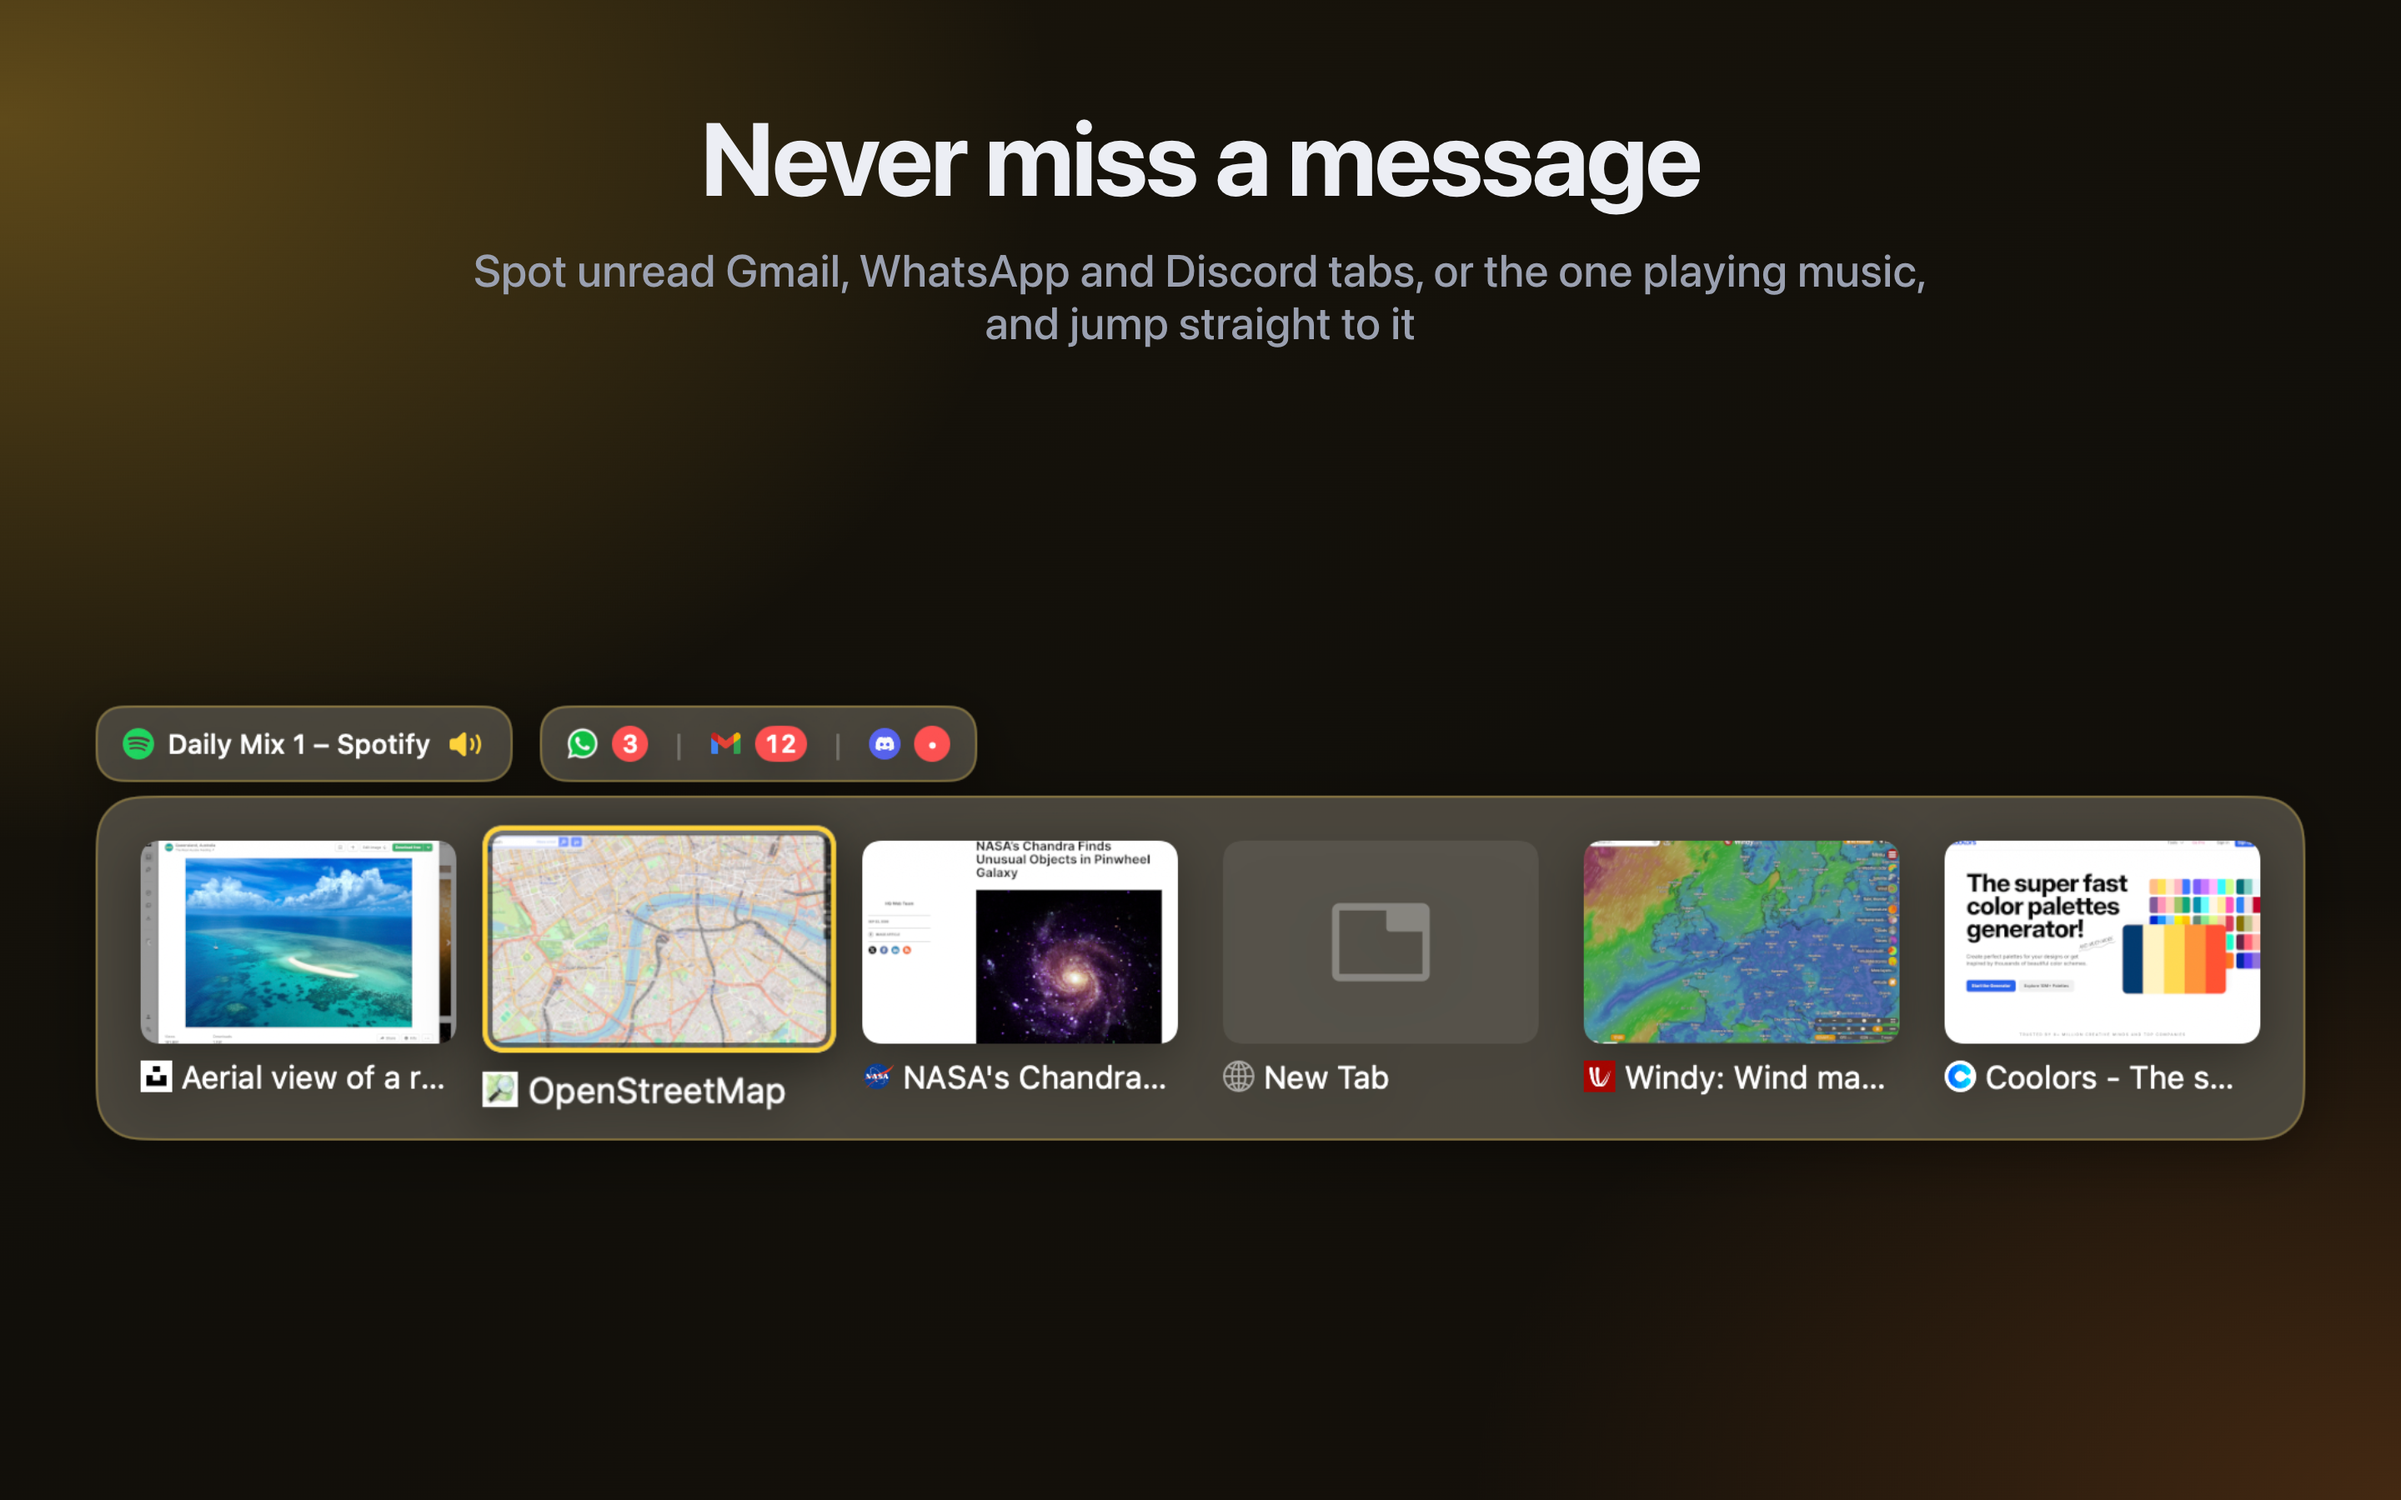
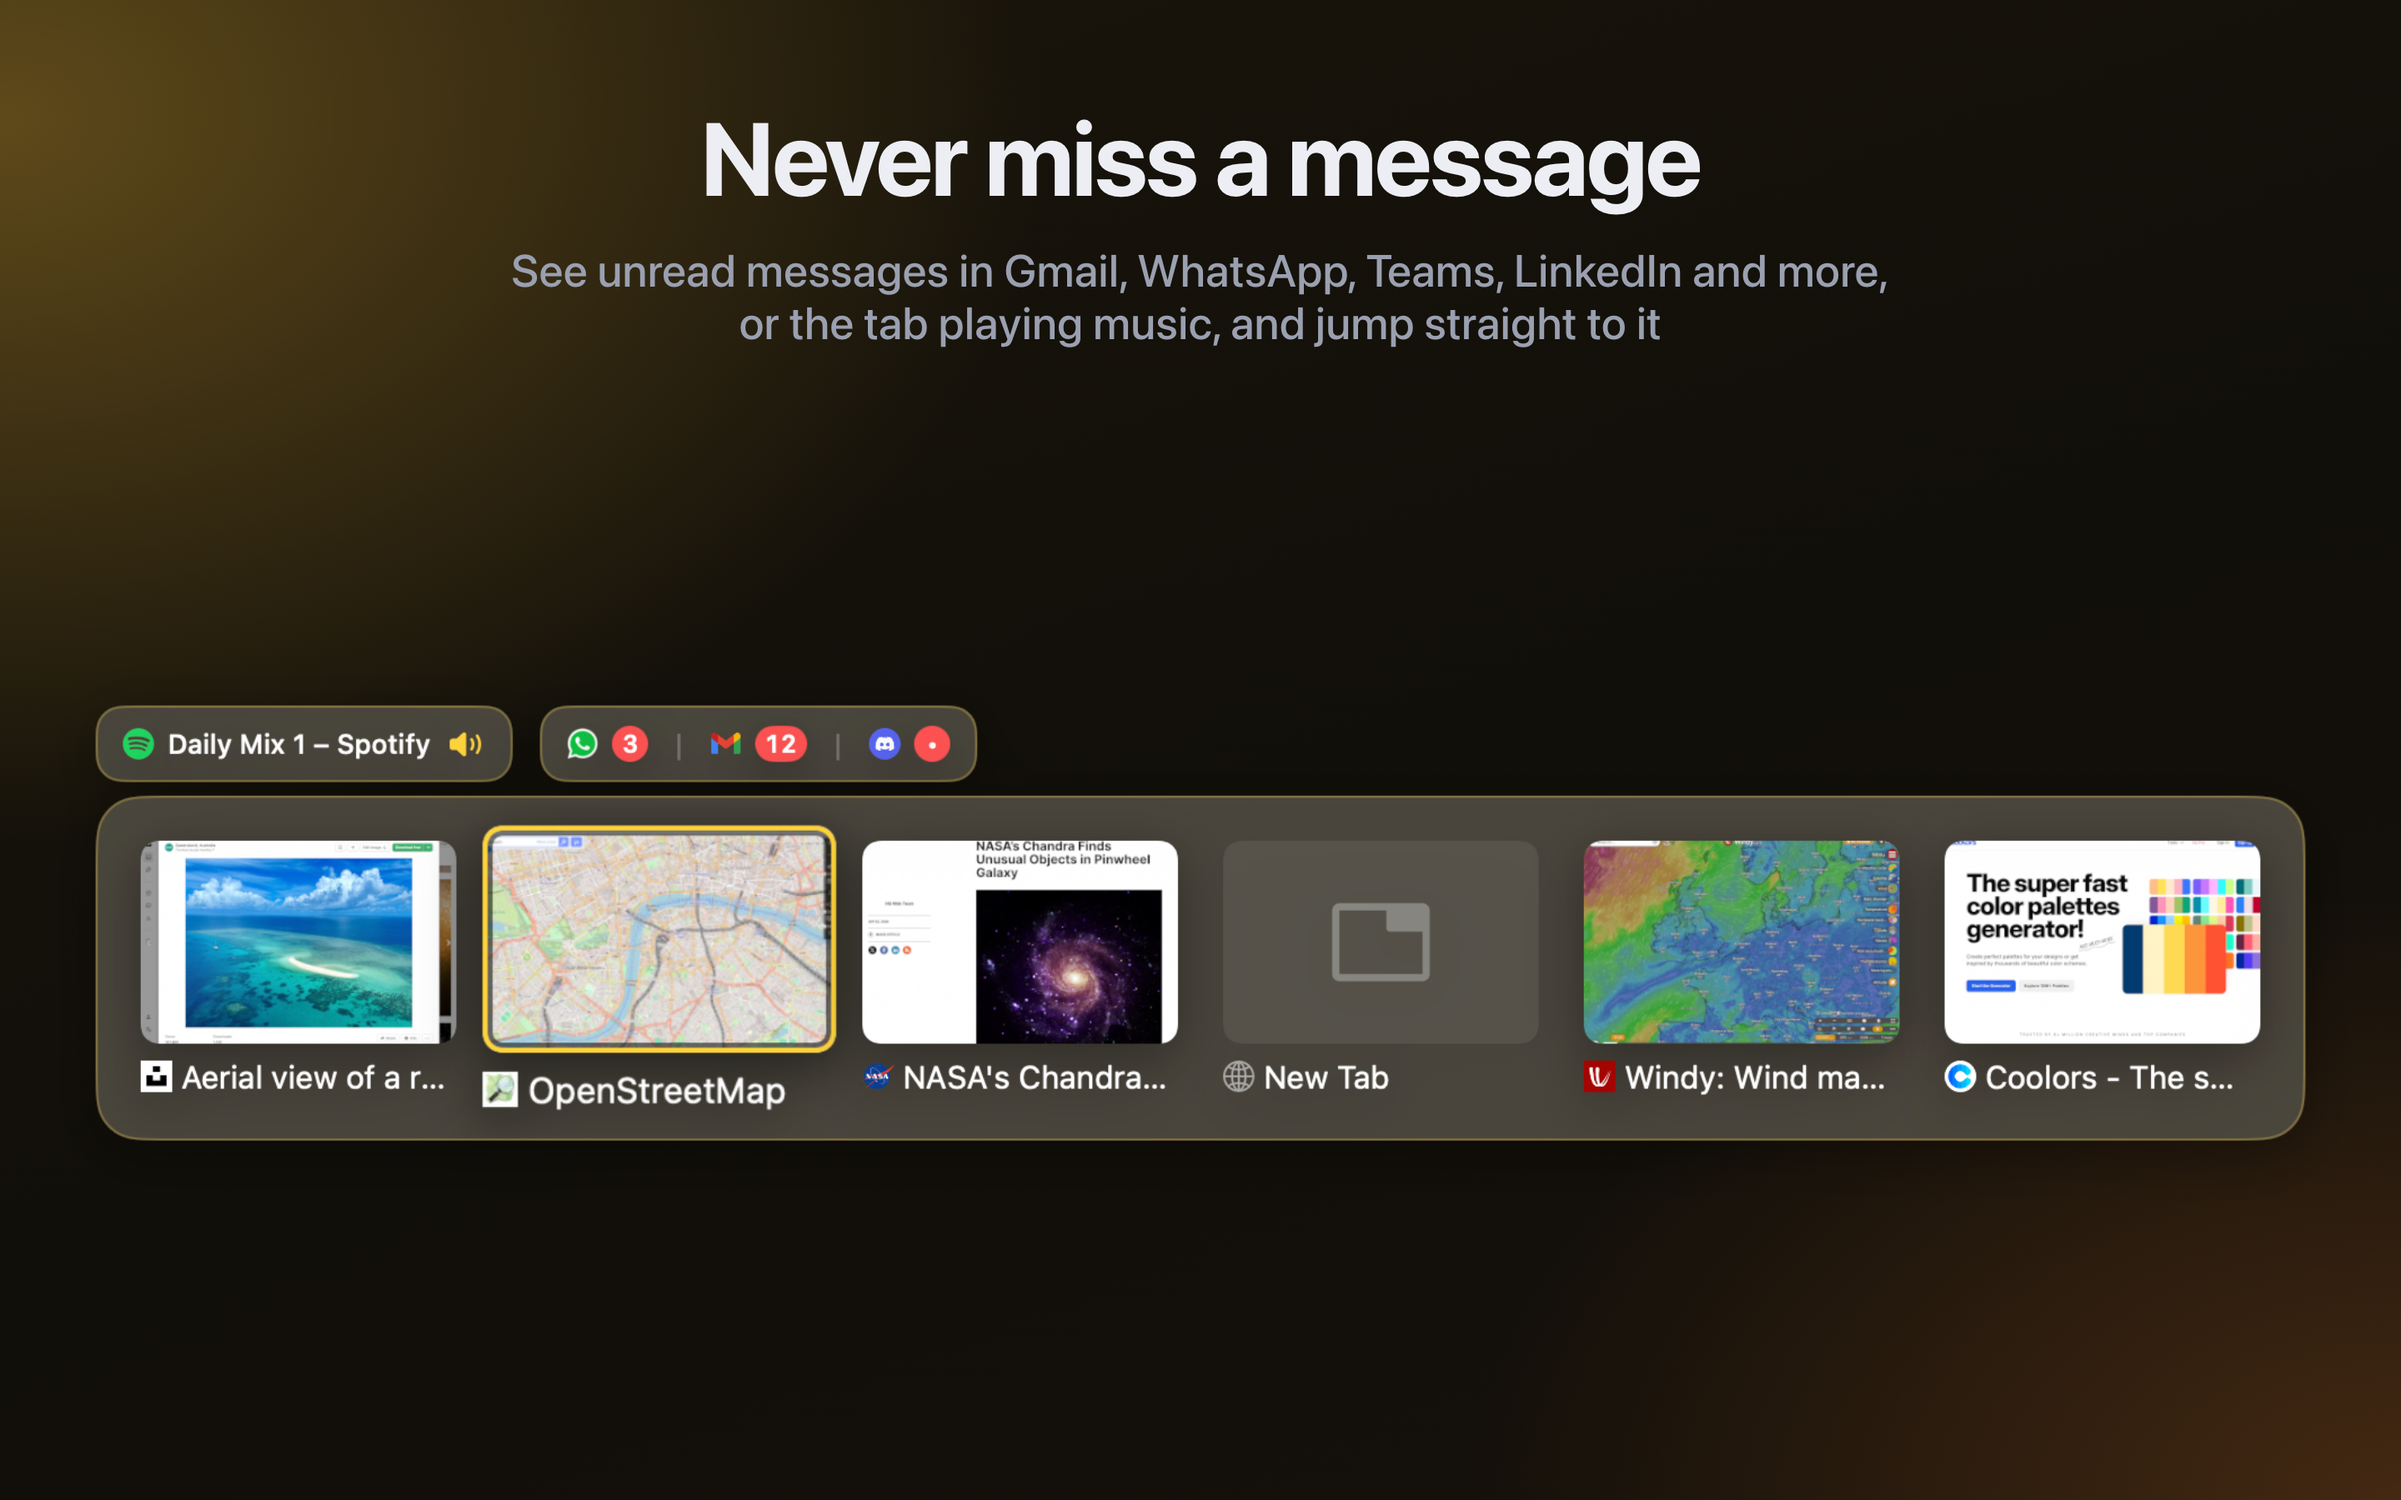
deploy: update TabFlick landing page

Changed region(s): [[0.1875, 0.1556, 0.7812, 0.2489]]

diff --git a/tab-flick/index.html b/tab-flick/index.html
@@ -14,7 +14,9 @@
 <meta property="og:image" content="https://e.gluhotorenko.com/tab-flick/assets/social.png">
 <meta name="twitter:card" content="summary_large_image">
 
-<link rel="stylesheet" href="styles.css">
+<!-- Bump ?v= with every styles.css change: Pages lets browsers cache it for 10
+     minutes, so a deploy would otherwise pair new HTML with the old CSS. -->
+<link rel="stylesheet" href="styles.css?v=2">
 </head>
 <!-- Change launch-state to "released" when the browser extensions are available. -->
 <body data-launch-state="coming-soon">
@@ -61,7 +63,7 @@
       </article>
       <article class="promo-slide">
         <img class="promo-image" src="imgs/promo-3.webp" loading="lazy"
-          alt="Never miss a message: spot unread Gmail, WhatsApp and Discord tabs, or the one playing music, and jump straight to it">
+          alt="Never miss a message: see unread messages in Gmail, WhatsApp, Teams, LinkedIn and more, or the tab playing music, and jump straight to it">
       </article>
       <article class="promo-slide">
         <img class="promo-image" src="imgs/promo-4.webp" loading="lazy"

diff --git a/tab-flick/appstore/screenshots.html b/tab-flick/appstore/screenshots.html
@@ -383,7 +383,7 @@
 <!-- 3 — tab activity: unread messages and sound -->
 <section class="shot amber" id="shot-3">
   <h1 class="headline">Never miss a message</h1>
-  <p class="subline">Spot unread Gmail, WhatsApp and Discord tabs, or the one playing music,<br>and jump straight to it</p>
+  <p class="subline">See unread messages in Gmail, WhatsApp, Teams, LinkedIn and more,<br>or the tab playing music, and jump straight to it</p>
   <div class="free-stage"><img class="wider" src="shots/activity.png" alt=""></div>
 </section>
 

diff --git a/tab-flick/styles.css b/tab-flick/styles.css
@@ -137,8 +137,14 @@ kbd {
   color: var(--text);
 }
 .browser img {
+  --icon-size: 17px;
+  --cap-height: 0.7em;  /* the system font's capitals */
+  width: var(--icon-size);
+  height: var(--icon-size);
   margin-right: 5px;
-  vertical-align: -0.22em;  /* sit the icon on the text's x-height */
+  /* Centre the icon on the capitals rather than the x-height, which sits it low
+     next to names that all start with a capital. */
+  vertical-align: calc((var(--cap-height) - var(--icon-size)) / 2);
 }
 
 .cta-row {

diff --git a/tab-flick/privacy/index.html b/tab-flick/privacy/index.html
@@ -7,7 +7,7 @@
 <meta name="description" content="How TabFlick handles information in the Mac app, browser extensions, and website.">
 <link rel="icon" href="../assets/logo.png">
 <link rel="canonical" href="https://e.gluhotorenko.com/tab-flick/privacy/">
-<link rel="stylesheet" href="../styles.css">
+<link rel="stylesheet" href="../styles.css?v=2">
 </head>
 <body>
 
